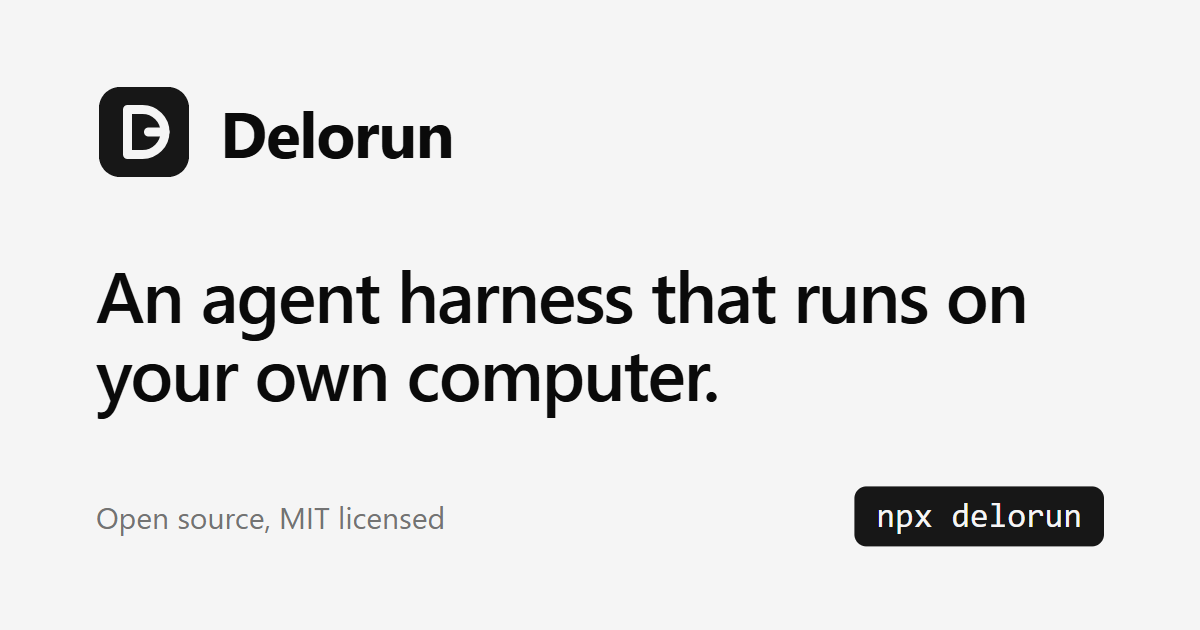
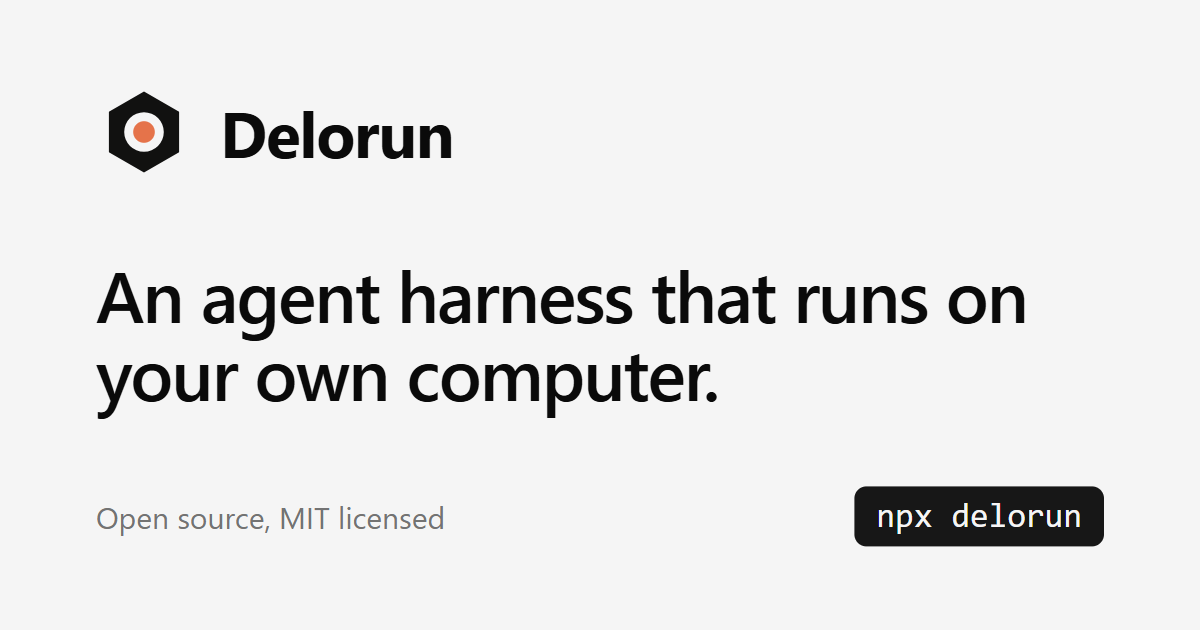
fix(site-design): draw Delorun's hex jack mark on both sites
The website had a new letter mark. Both sites now draw the studio's hex
nut with the peach plug, in the header, the favicon and the social
image; the docs header and favicon gain the mark too.

Changelog: none (marketing and documentation sites)

Changed region(s): [[0.0617, 0.1206, 0.185, 0.3016]]

diff --git a/delo/packages/site-design/src/mark.tsx b/delo/packages/site-design/src/mark.tsx
@@ -1,15 +1,16 @@
 /**
- * The Delorun mark: a rounded tile with a letter D whose bowl ends in a forward stroke. It draws in the text colour,
- * with the page background showing through the letter, so it follows light and dark without a second file.
+ * The Delorun mark, the hex jack the studio's sidebar draws: a hexagonal nut in the text colour whose round hole shows
+ * the page, with a plug in Delorun's peach accent. It follows light and dark without a second file.
  *
  * @module @delo/site-design/mark
  */
 
-/** The mark's drawing, shared by the inline component and the favicon file so the two cannot drift. */
-export const MARK_PATHS = {
-  tile: 'M8 1h16a7 7 0 0 1 7 7v16a7 7 0 0 1-7 7H8a7 7 0 0 1-7-7V8a7 7 0 0 1 7-7z',
-  letter: 'M10.5 8.5v15h5a7.5 7.5 0 0 0 0-15z',
-  stroke: 'M17.5 16h5.5',
+/** The mark's drawing, the same nut and plug as `@delo/bundle-local`'s sidebar mark and the favicon file. */
+export const MARK = {
+  nut: 'M16 2.5L27.7 9.25V22.75L16 29.5L4.3 22.75V9.25Z M22.6 16A6.6 6.6 0 1 0 9.4 16A6.6 6.6 0 1 0 22.6 16Z',
+  plug: { cx: 16, cy: 16, r: 3.6 },
+  /** Delorun's default accent, Peach (`@delo/plugin-theme`). */
+  peach: '#E5734A',
 } as const
 
 /**
@@ -21,9 +22,8 @@ export const MARK_PATHS = {
 export function Mark({ size = 28, title }: { size?: number, title?: string }) {
   return (
     <svg width={size} height={size} viewBox="0 0 32 32" role={title === undefined ? undefined : 'img'} aria-hidden={title === undefined ? true : undefined} aria-label={title} focusable="false">
-      <path d={MARK_PATHS.tile} className="fill-fd-foreground" />
-      <path d={MARK_PATHS.letter} fill="none" strokeWidth="3" strokeLinejoin="round" className="stroke-fd-background" />
-      <path d={MARK_PATHS.stroke} fill="none" strokeWidth="3" strokeLinecap="round" className="stroke-fd-background" />
+      <path d={MARK.nut} fillRule="evenodd" className="fill-fd-foreground" />
+      <circle cx={MARK.plug.cx} cy={MARK.plug.cy} r={MARK.plug.r} fill={MARK.peach} />
     </svg>
   )
 }

diff --git a/delo/apps/docs/src/theme/header.ts b/delo/apps/docs/src/theme/header.ts
@@ -1,10 +1,12 @@
 /**
- * The header every layout shows: the site title linking a home page, and links beside it. It takes its text and
+ * The header every layout shows: the Delorun mark and the site title linking a home page, and links beside it. It takes its text and
  * addresses from the caller and reads no content, so another site can use it with its own.
  *
  * @module @delo/docs/theme/header
  */
+import { createElement, Fragment } from 'react'
 import type { BaseLayoutProps } from 'fumadocs-ui/layouts/shared'
+import { Mark } from '@design/mark.tsx'
 
 /** A link the header shows beside the title. */
 export interface HeaderLink {
@@ -28,7 +30,7 @@ export interface HeaderOptions {
  */
 export function headerOptions(options: HeaderOptions): BaseLayoutProps {
   return {
-    nav: { title: options.title, url: options.homeUrl },
+    nav: { title: createElement(Fragment, null, createElement(Mark, { size: 22 }), options.title), url: options.homeUrl },
     links: options.links.map(({ text, url, external }) => ({ text, url, external })),
   }
 }

diff --git a/delo/apps/website/scripts/og.html b/delo/apps/website/scripts/og.html
@@ -13,7 +13,7 @@
 </style>
 <main>
   <div class="brand">
-    <svg width="96" height="96" viewBox="0 0 32 32" aria-hidden="true"><path d="M8 1h16a7 7 0 0 1 7 7v16a7 7 0 0 1-7 7H8a7 7 0 0 1-7-7V8a7 7 0 0 1 7-7z" fill="#171717"/><path d="M10.5 8.5v15h5a7.5 7.5 0 0 0 0-15z" fill="none" stroke="#f5f5f5" stroke-width="3" stroke-linejoin="round"/><path d="M17.5 16h5.5" fill="none" stroke="#f5f5f5" stroke-width="3" stroke-linecap="round"/></svg>
+    <svg width="96" height="96" viewBox="0 0 32 32" aria-hidden="true"><path d="M16 2.5L27.7 9.25V22.75L16 29.5L4.3 22.75V9.25Z M22.6 16A6.6 6.6 0 1 0 9.4 16A6.6 6.6 0 1 0 22.6 16Z" fill="#111110" fill-rule="evenodd"/><circle cx="16" cy="16" r="3.6" fill="#e5734a"/></svg>
     Delorun
   </div>
   <h1>An agent harness that runs on your own computer.</h1>

diff --git a/delo/apps/docs/src/routes/__root.tsx b/delo/apps/docs/src/routes/__root.tsx
@@ -16,7 +16,7 @@ export const Route = createRootRoute({
       { charSet: 'utf-8' },
       { name: 'viewport', content: 'width=device-width, initial-scale=1' },
     ],
-    links: [{ rel: 'stylesheet', href: appCss }],
+    links: [{ rel: 'stylesheet', href: appCss }, { rel: 'icon', href: '/favicon.svg', type: 'image/svg+xml' }],
   }),
   component: RootDocument,
 })
